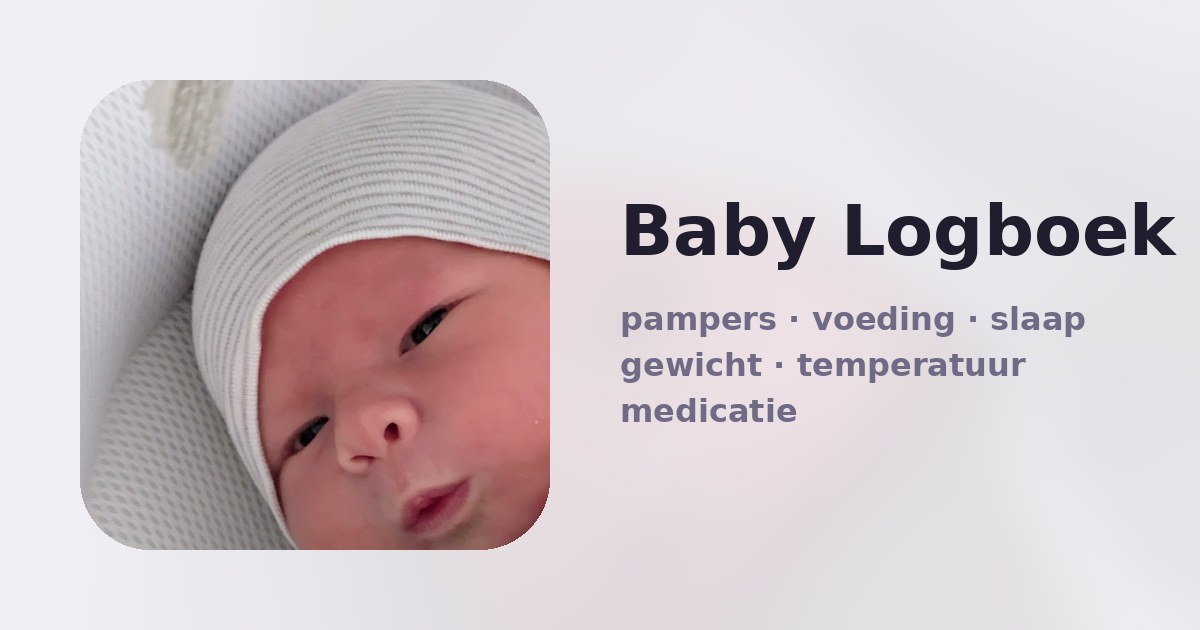
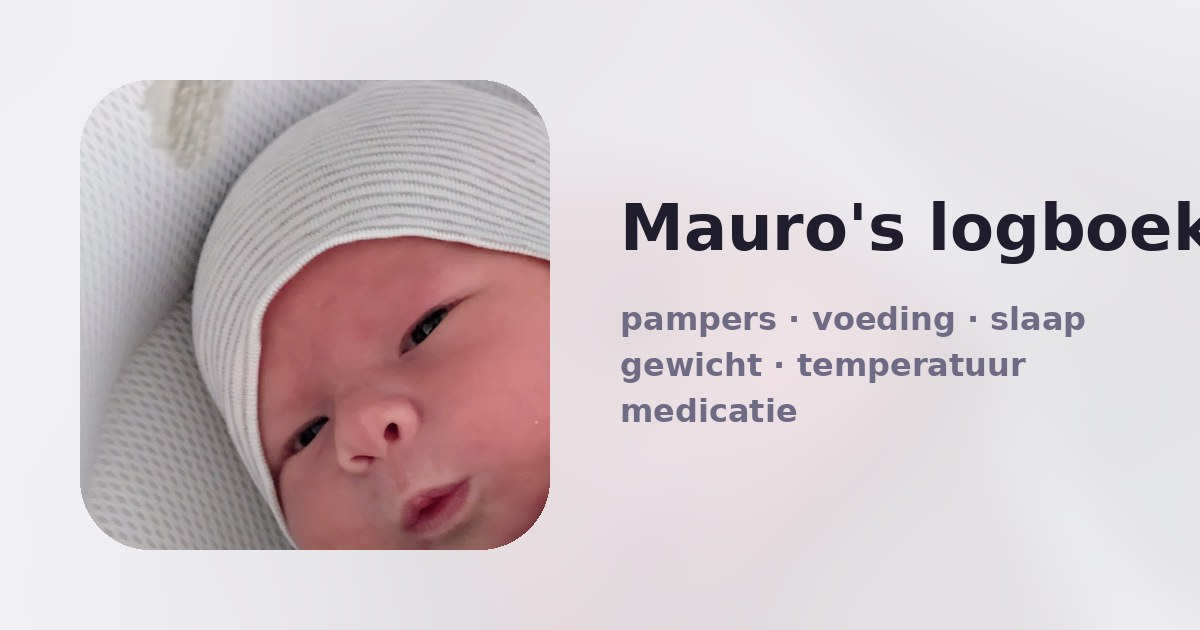
Naam: Mauro’s logboek
Claude-Session: https://claude.ai/code/session_01RhHvvezfmYhCqJimqTLc8y

Changed region(s): [[0.5242, 0.3016, 1.0, 0.4524]]

diff --git a/index.html b/index.html
@@ -6,14 +6,14 @@
 <meta name="apple-mobile-web-app-capable" content="yes">
 <meta name="apple-mobile-web-app-status-bar-style" content="default">
 <meta name="theme-color" content="#f4f3f8">
-<title>Baby Logboek</title>
-<meta name="apple-mobile-web-app-title" content="Logboek">
+<title>Mauro’s logboek</title>
+<meta name="apple-mobile-web-app-title" content="Mauro">
 <link rel="manifest" href="manifest.json">
 <link rel="icon" type="image/png" sizes="32x32" href="icons/favicon-32.png">
 <link rel="icon" type="image/png" sizes="16x16" href="icons/favicon-16.png">
 <link rel="apple-touch-icon" sizes="180x180" href="icons/apple-touch-icon.png">
 <meta property="og:type" content="website">
-<meta property="og:title" content="Baby Logboek">
+<meta property="og:title" content="Mauro’s logboek">
 <meta property="og:description" content="Pampers, voeding, slaap, gewicht, temperatuur en medicatie, samen bijgehouden.">
 <meta property="og:url" content="https://q-v-d.github.io/baby-logboek/">
 <meta property="og:image" content="https://q-v-d.github.io/baby-logboek/icons/og-image.jpg">
@@ -255,7 +255,7 @@
   <header>
     <div>
       <div class="label" id="today-label">Vandaag</div>
-      <h1>Baby Logboek</h1>
+      <h1>Mauro’s logboek</h1>
     </div>
     <div class="hright">
       <button id="gear" type="button" aria-label="Instellingen">
